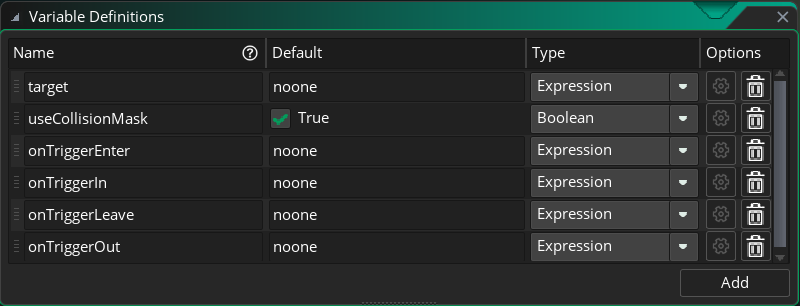
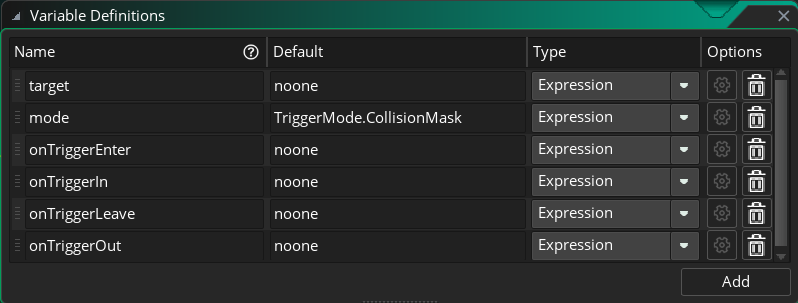
修改readme

diff --git a/README.md b/README.md
@@ -11,7 +11,10 @@ GMS2简易触发器
 ## 配置项
 ![](./img/options.png)
 - target: 触发对象，该对象进入触发器才会触发事件。
-- useCollisionMask: 是否使用碰撞盒做碰撞检测，默认为 `true`。使用碰撞盒时，触发器只会触发 `onTriggerEnter` 和 `onTriggerOut` 事件。
+- mode: 触发模式，默认为 `CollisioinMask`，有三种触发模式：
+  - `CollisioinMask`: 使用sprite的碰撞盒进行触发，该模式可以触发 `onTriggerEnter` 和 `onTriggerOut` 事件。
+  - `Rectangle`: 使用矩形碰撞算法，会使用 `target` 的 `sprite` 边框作为第一个矩形，`trigger` 边框作为第二个矩形，然后做相交运算。该模式可以触发 `onTriggerEnter` 、`onTriggerIn` 、`onTriggerLeave` 和 `onTriggerOut` 事件
+  - `Point`: 该模式以 `sprite` 的 `origin` 点 作为参照，进入触发器时，触发 `onTriggerIn` ，退出触发器时，触发 `onTriggerOut`
 - onTriggerEnter: 进入事件脚本。
 - onTriggerIn: 完全进入事件脚本。
 - onTriggerLeave: 离开事件脚本。
